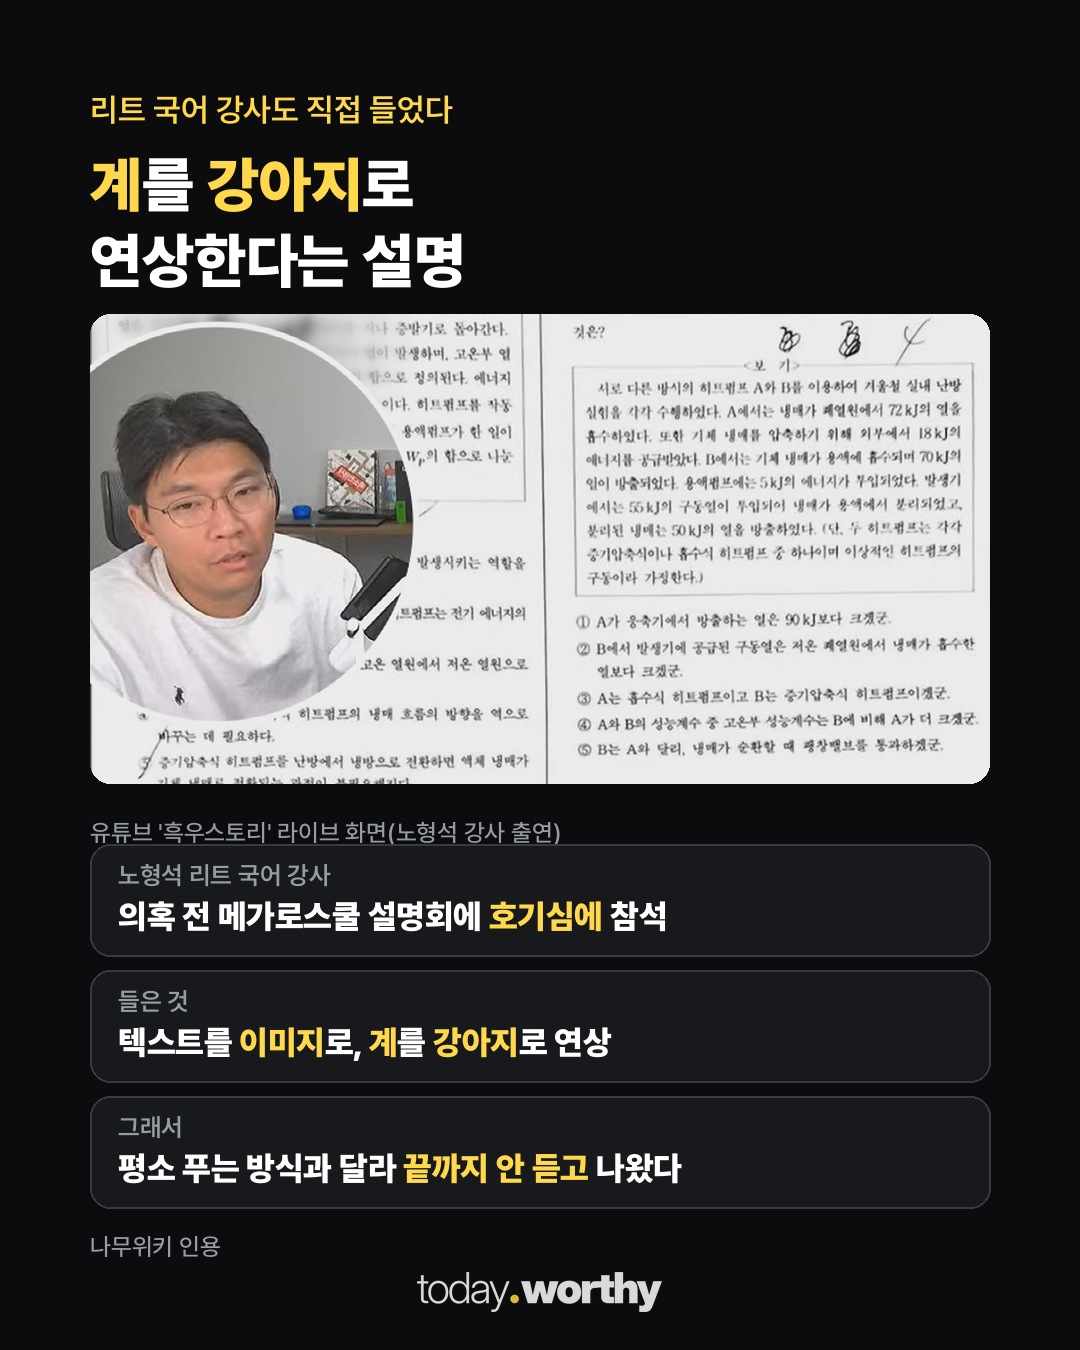
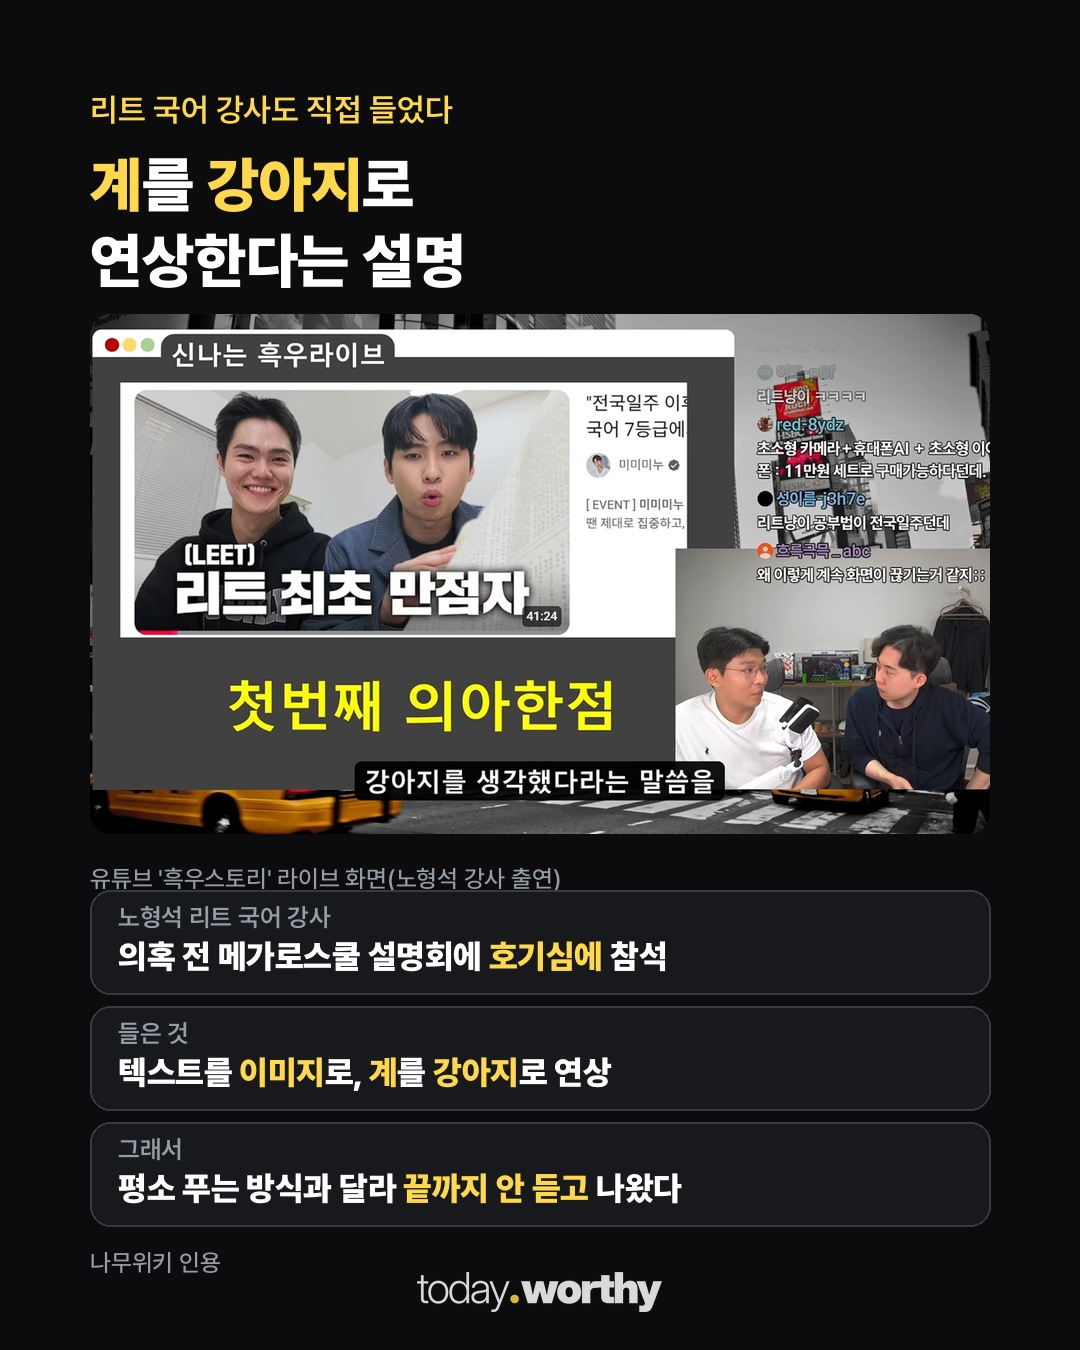
leetlec: 3장 노형석 강사 사진을 사용자 캡처로 교체
Claude-Session: https://claude.ai/code/session_01FGsw5QnWxFUsnopcB1Czie

diff --git a/media/20261118-leetlec/build_cards.py b/media/20261118-leetlec/build_cards.py
@@ -15,15 +15,15 @@ from xpost_cards import P, BOX, LN, MU, FG, F, rich, base, logo, head, wrap
 from PIL import ImageDraw
 im = base(); d = ImageDraw.Draw(im); y = head(d, "리트 국어 강사도 직접 들었다", "'계'를 '강아지'로\n연상한다는 설명", y=90)
 # 사용자: 노형석 강사 유튜브 화면 넣기 — 유튜브 '흑우스토리' 라이브(노형석 강사 출연, 리트 시험지 분석) 화면, 네이트 뉴스 기사 사진
-ph = ImageOps.fit(Image.open(O / "nohs.jpg").convert("RGB"), (W - 2 * P, 470), Image.LANCZOS, centering=(.5, .5))
+ph = ImageOps.fit(Image.open(O / "nohs.jpg").convert("RGB"), (W - 2 * P, 520), Image.LANCZOS, centering=(.5, .5))
 m = Image.new("L", ph.size, 0); ImageDraw.Draw(m).rounded_rectangle((0, 0, ph.width - 1, ph.height - 1), 20, fill=255); im.paste(ph, (P, y), m)
-d.text((P, y + 470 + 34), "유튜브 '흑우스토리' 라이브 화면(노형석 강사 출연)", font=F("Medium", 24), fill=MU); y += 470 + 60
+d.text((P, y + 520 + 30), "유튜브 '흑우스토리' 라이브 화면(노형석 강사 출연)", font=F("Medium", 24), fill=MU); y += 520 + 56
 rows = [("노형석 리트 국어 강사", "의혹 전 메가로스쿨 설명회에 '호기심에' 참석"), ("들은 것", "텍스트를 '이미지'로, '계'를 '강아지'로 연상"),
         ("그래서", "평소 푸는 방식과 달라 '끝까지 안 듣고' 나왔다")]
 for lab, txt in rows:
-    d.rounded_rectangle((P, y, W - P, y + 112), 20, fill=BOX, outline=LN, width=2)
-    d.text((P + 28, y + 16), lab, font=F("SemiBold", 25), fill=MU); rich(d, P + 28, y + 52, txt, F("Black", 33))
-    y += 126
+    d.rounded_rectangle((P, y, W - P, y + 104), 20, fill=BOX, outline=LN, width=2)
+    d.text((P + 28, y + 12), lab, font=F("SemiBold", 25), fill=MU); rich(d, P + 28, y + 46, txt, F("Black", 33))
+    y += 116
 d.text((P, y + 10), "나무위키 인용", font=F("Medium", 24), fill=MU)
 logo(im); im.save(O / "c03.jpg", quality=93)
 from PIL import ImageFilter
